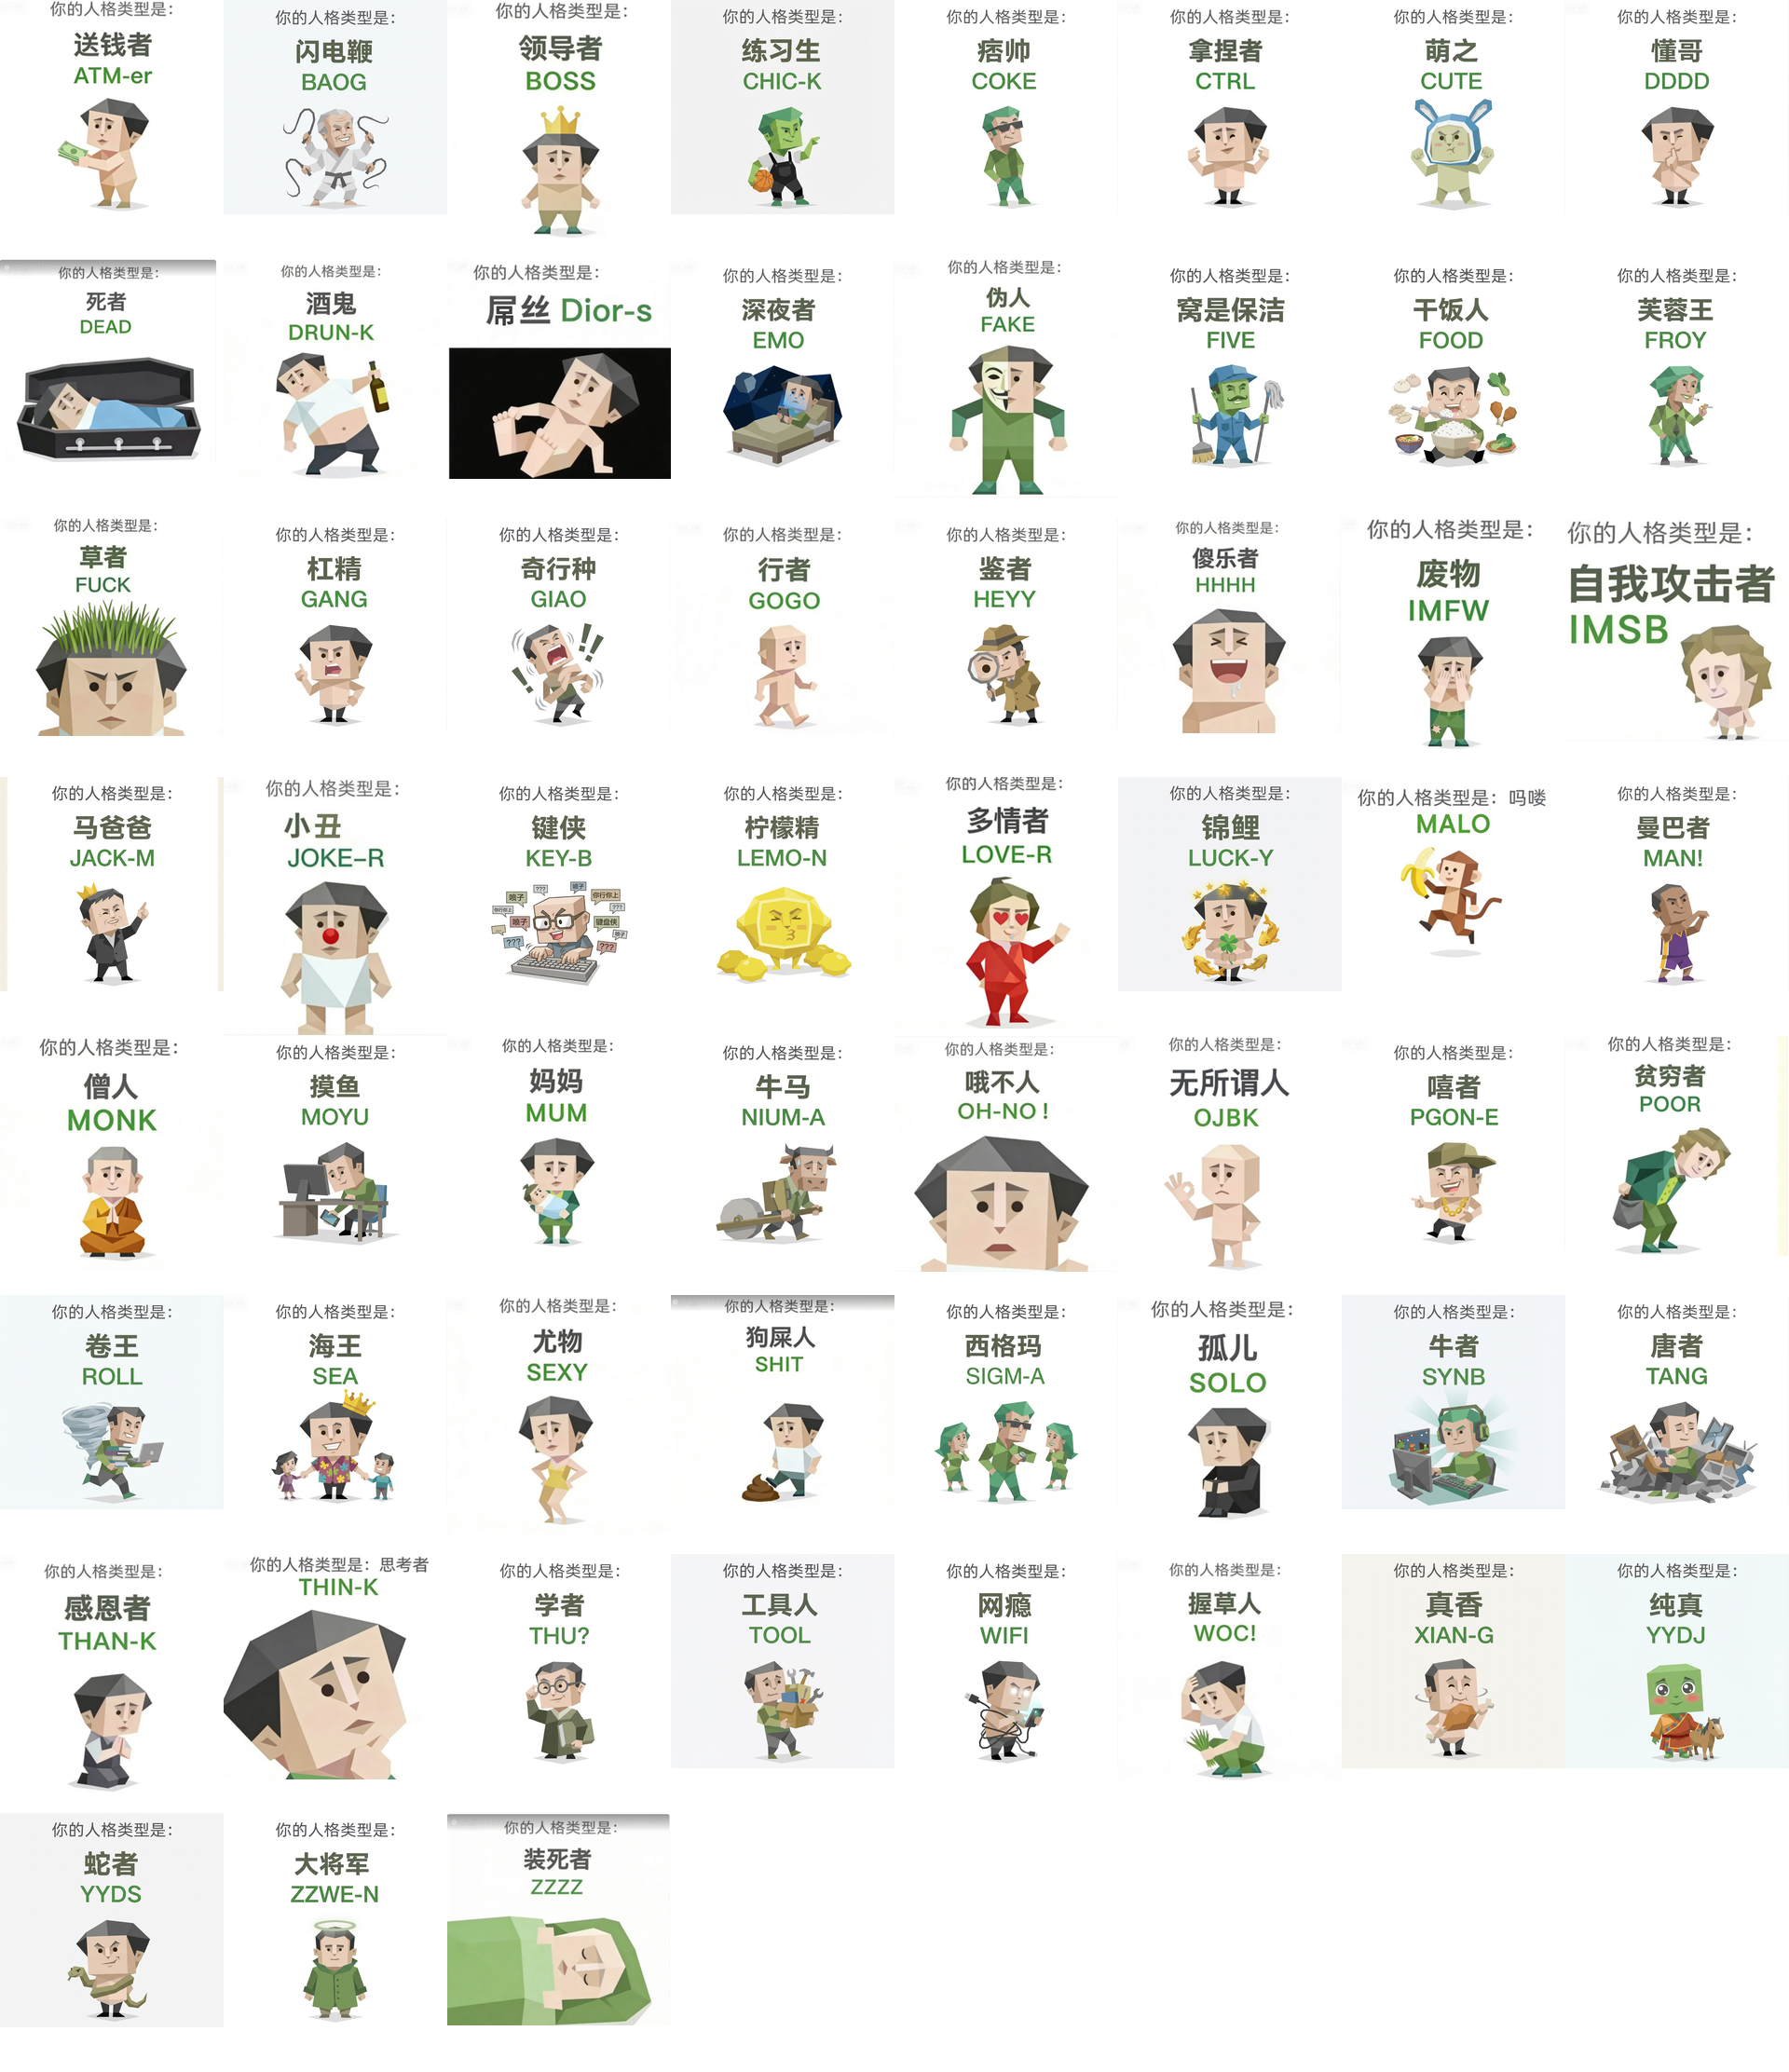
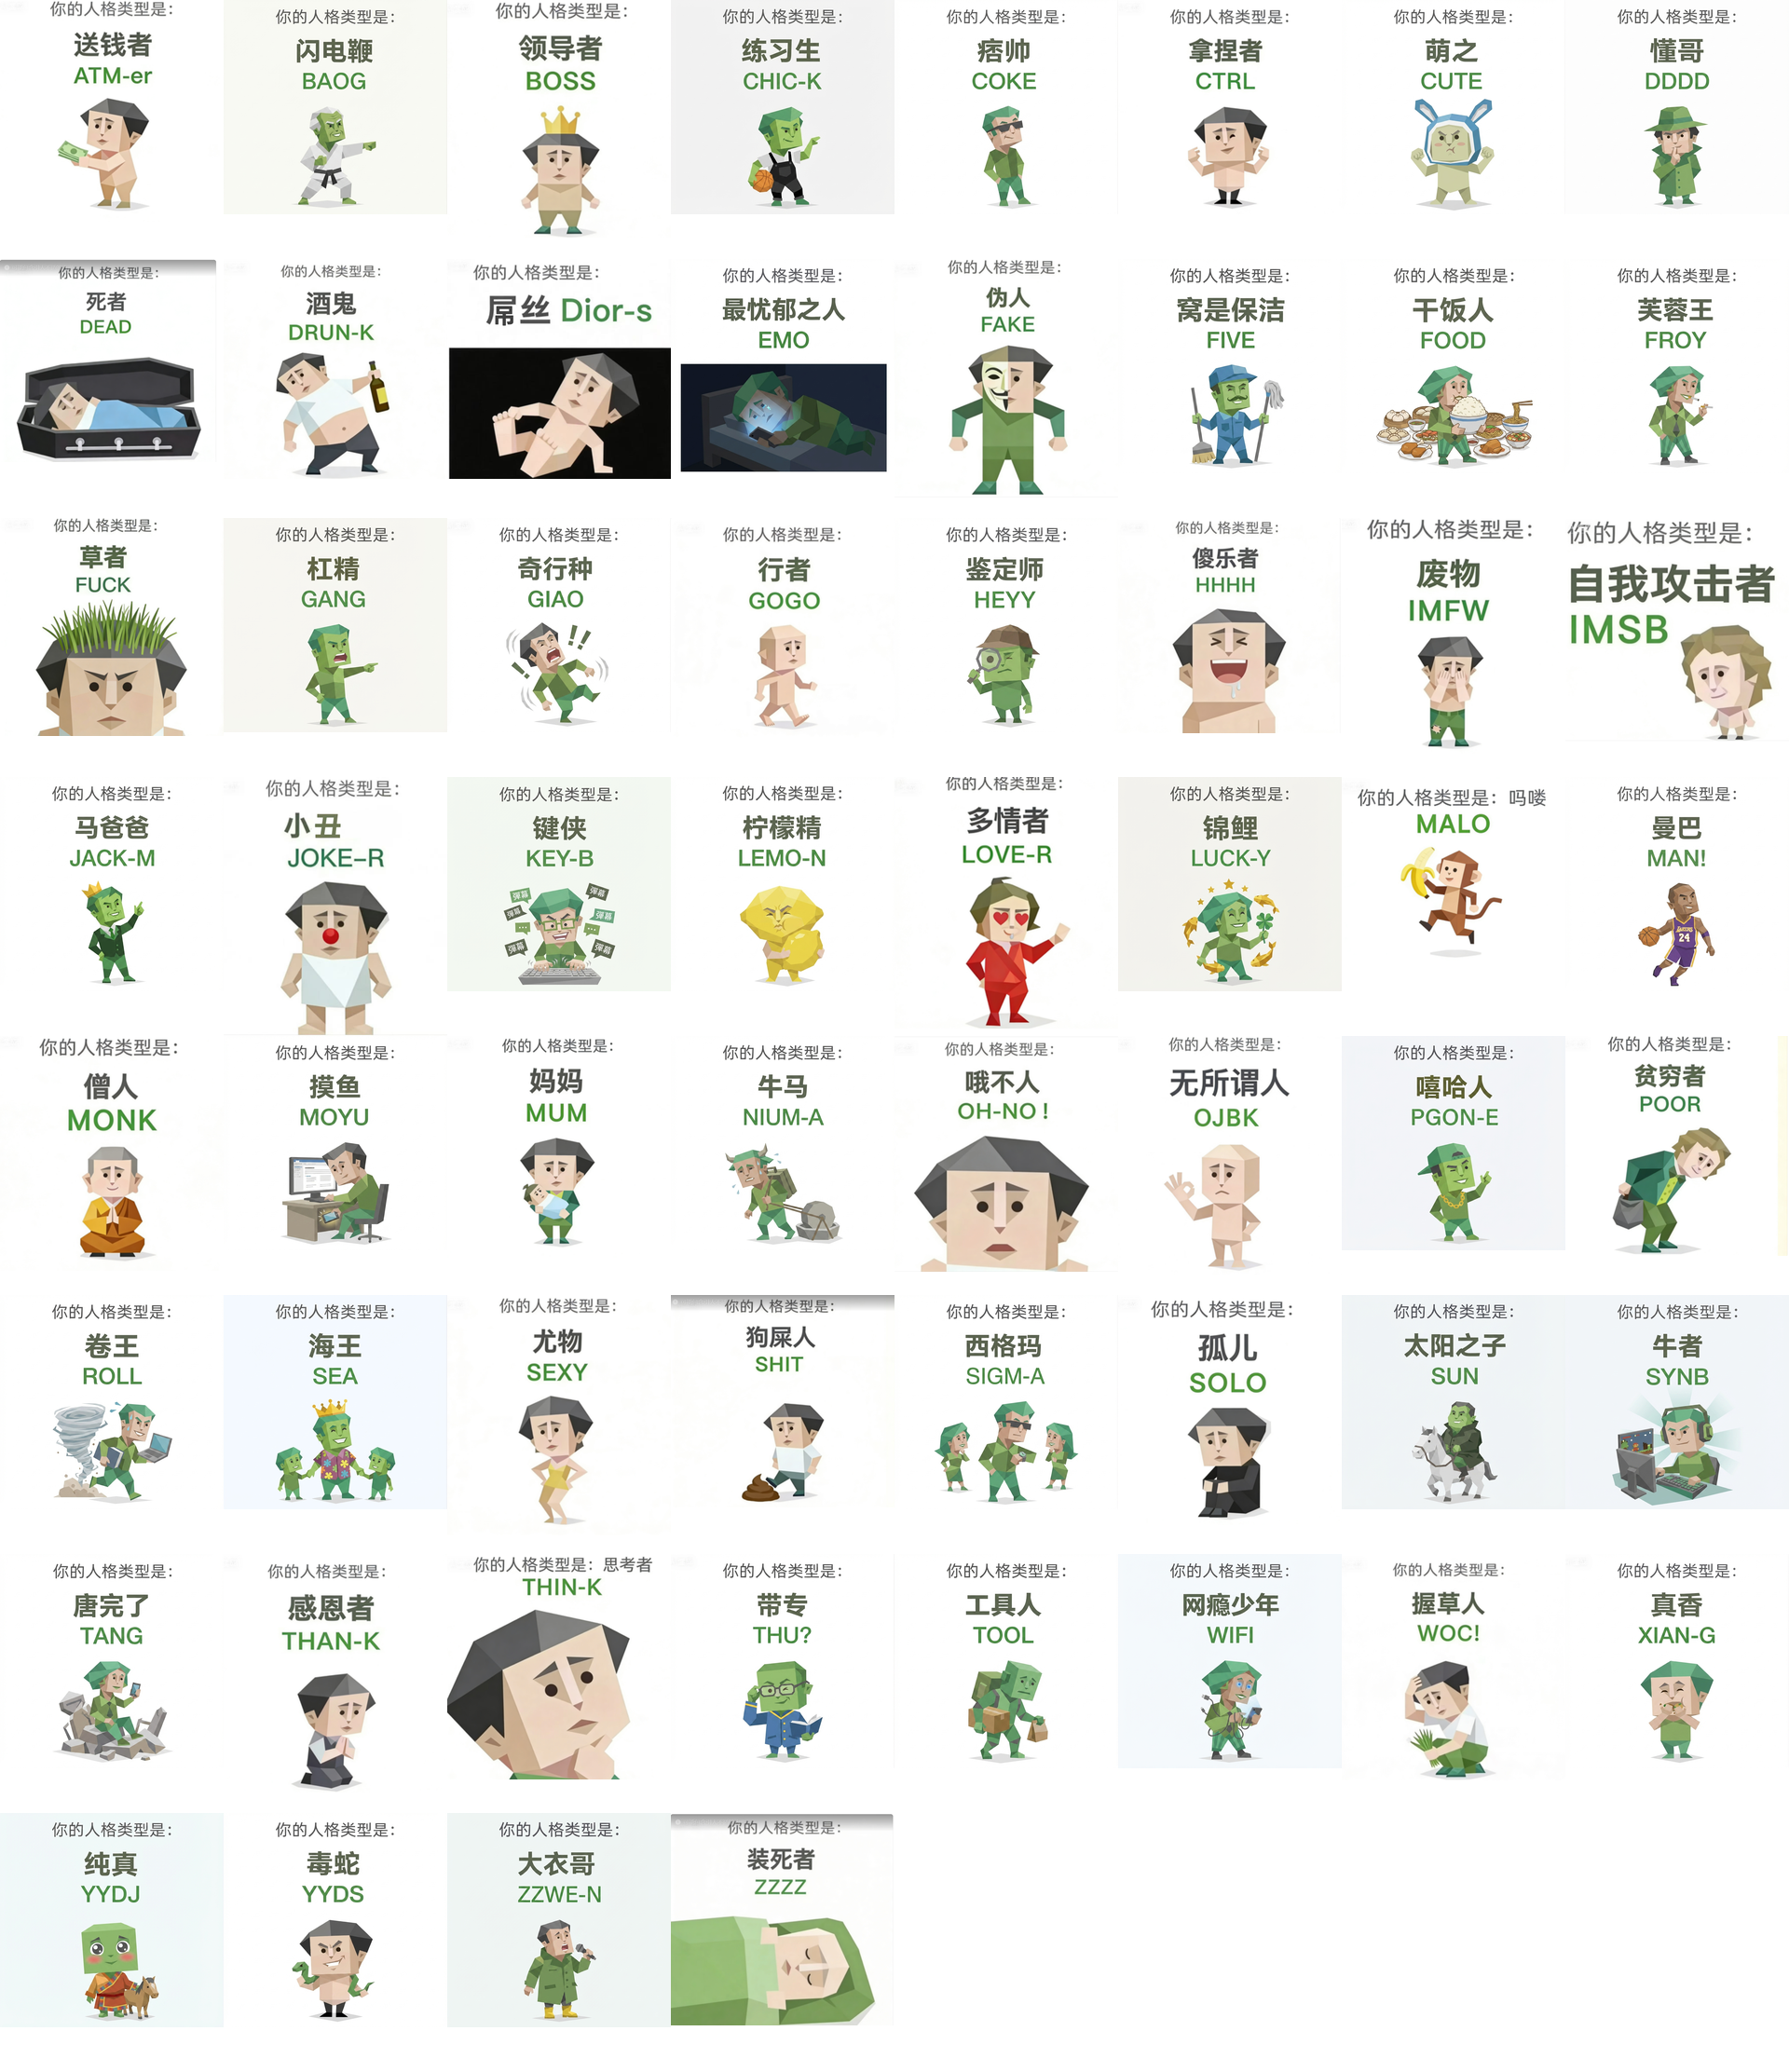
feat: add SUN (太阳之子) + regenerate collages
你从丹东来，换我一城雪白～
Round body + military coat + white horse = 太阳本阳

Updated collages with all 60 types.

diff --git a/index.html b/index.html
@@ -1667,6 +1667,12 @@
     "cn": "萌之",
     "intro": "践踏他们！😡",
     "desc": "恭喜你，CUTE奶凶人格——外表是兔耳帽兜里探出来的糯米团子，内心是一台随时准备启动的微型推土机。所有人第一眼看到你都会发出“好可爱啊啊啊啊”的尖叫，然后第二眼就被你一句冷不丁的狠话吓得后退三步。你的杀伤力不在于凶，而在于反差——用世界上最软糯的声音说出最不讲道理的话，用最无辜的大眼睛释放最具威胁性的眼神。践踏他们！这三个字从你嘴里说出来，所有人都觉得好可爱，没有人意识到你是认真的。奶凶的本质是：明明可以靠可爱征服世界，偏偏还要在可爱的外壳里装一颗小炸弹。你不是在撒娇，你是在宣战——只不过宣战书是用粉色墨水写的，上面还画了个爱心。"
+  },
+  "SUN": {
+    "code": "SUN",
+    "cn": "太阳之子",
+    "intro": "你从丹东来，换我一城雪白～",
+    "desc": "恭喜你，SUN太阳之子人格——当所有人都在仰望太阳的时候，你就是太阳本阳。你骑着一匹白马踏雪而来，身后是一整个冬天的浪漫。你从丹东来，换谁一城雪白，这句话从别人嘴里说出来是土味情话，从你嘴里说出来是气象预报。SUN的存在不需要理由，正如太阳升起不需要闹钟。你走到哪里，哪里就是舞台中央；你看向哪里，哪里就自动打上追光灯。所有人都在讨论你，但你从不讨论任何人——因为太阳不需要回应星星的议论。你的体型是圆润的，因为太阳本来就是圆的。你的笑容是温暖的，因为太阳本来就该温暖万物。至于那匹白马？那不是坐骑，那是你巡视人间时的标配交通工具。"
   }
 };
     const TYPE_IMAGES = {
@@ -1728,7 +1734,8 @@
   "FOOD": "./image/FOOD.png",
   "WIFI": "./image/WIFI.png",
   "SIGM-A": "./image/SIGM-A.png",
-  "CUTE": "./image/CUTE.png"
+  "CUTE": "./image/CUTE.png",
+  "SUN": "./image/SUN.png"
 };
 
     const NORMAL_TYPES = [
@@ -1959,6 +1966,10 @@
   {
     "code": "CUTE",
     "pattern": "HMH-HHM-HLH-HHM-HMH"
+  },
+  {
+    "code": "SUN",
+    "pattern": "HHH-HMM-HHH-HHH-MHH"
   }
 ];
     const DIM_EXPLANATIONS = {